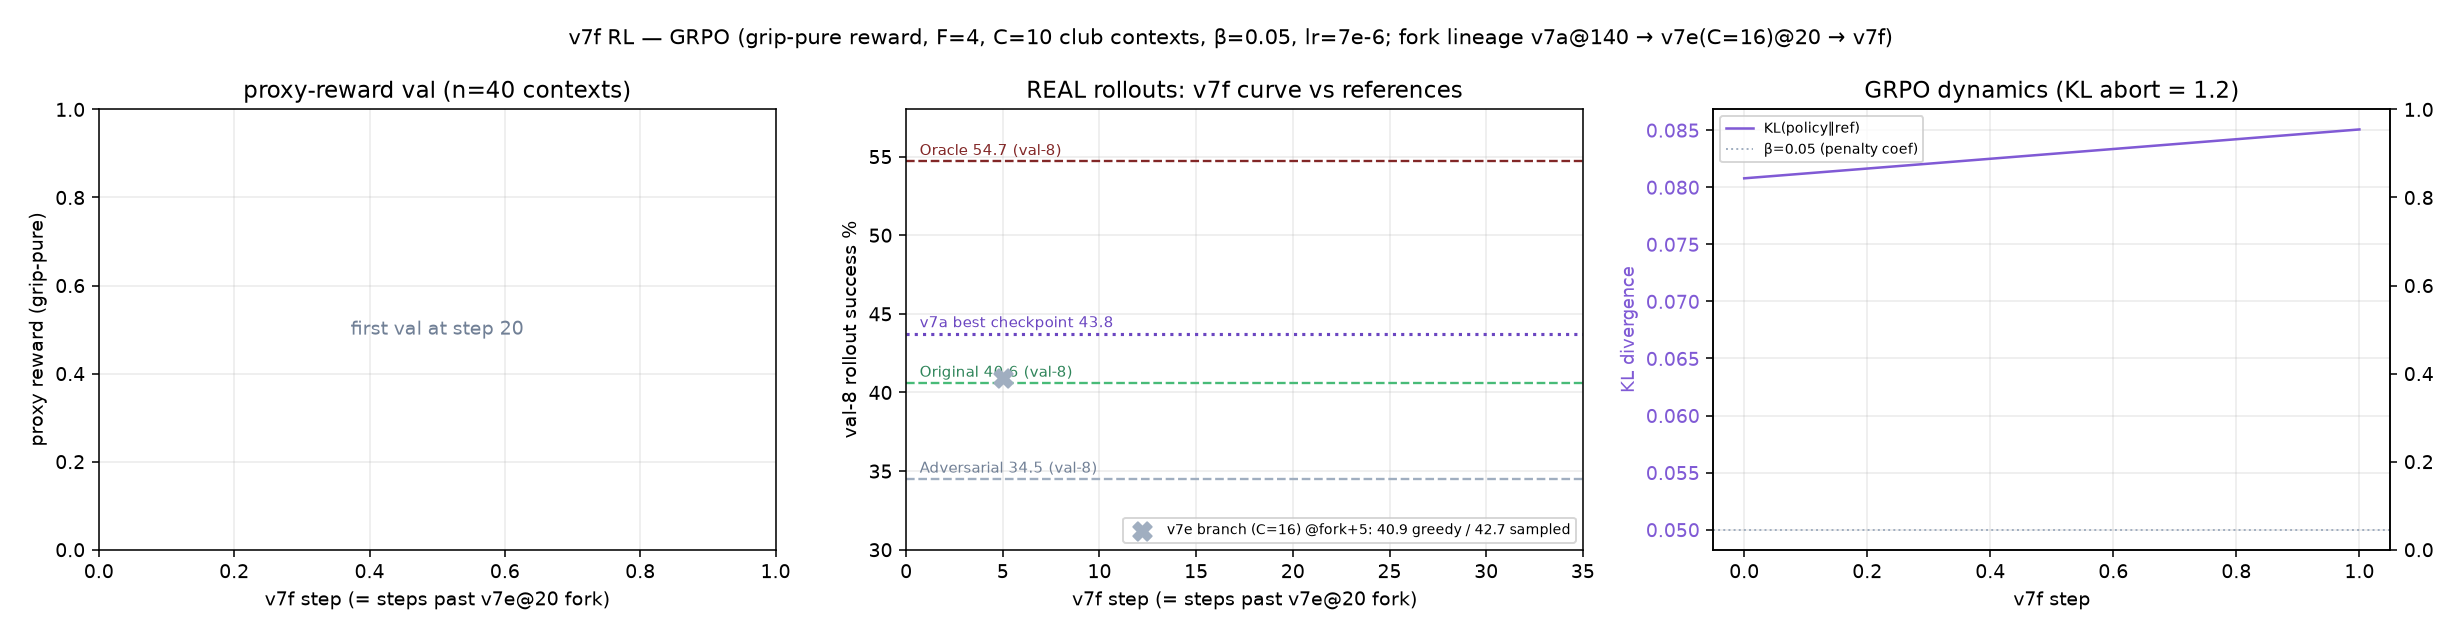
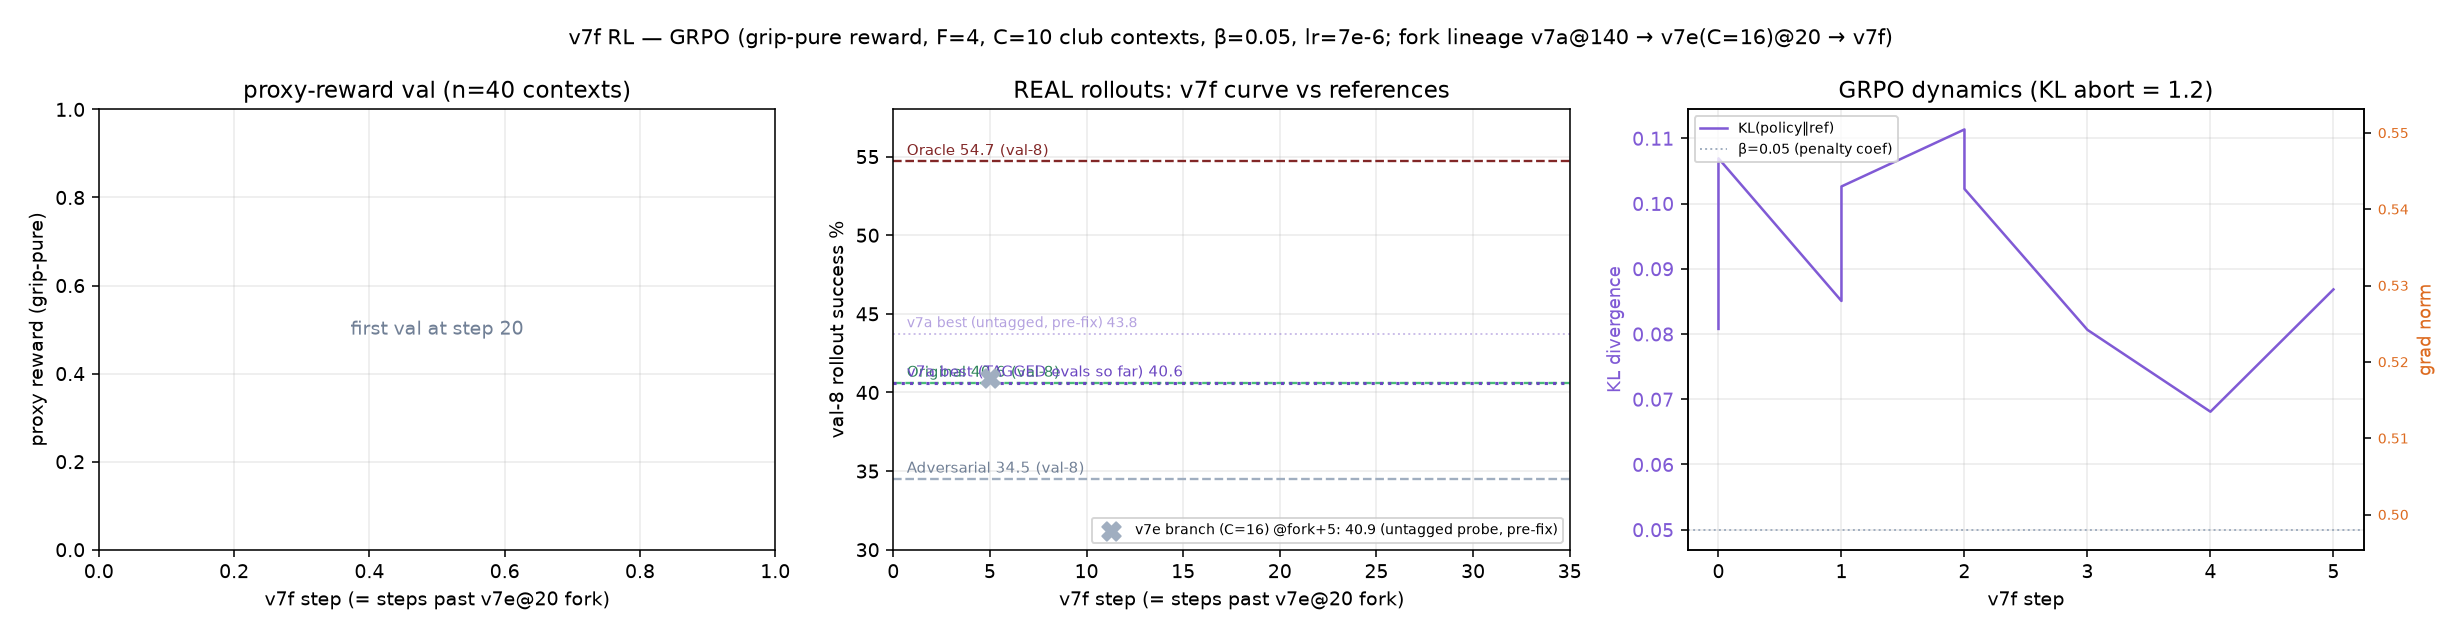
charts: tagged-vs-untagged layering (v7a conditions); v7f refs labeled by eval mode

diff --git a/scripts/make_v7_conditions_chart.py b/scripts/make_v7_conditions_chart.py
@@ -1,6 +1,9 @@
 #!/usr/bin/env python3
-"""v7 checkpoints on the full val-8, both input conditions (polish = rewriting
-originals; repair = rewriting adversarial), against the rolled reference lines."""
+"""v7a checkpoints on the full val-8, both input conditions, TAGGED (fixed) evals
+solid vs pre-fix untagged evals ghosted. Tagged rows merge from all roll pods'
+files (v7_dev8_tagged*.jsonl / v7_dev8adv_tagged*.jsonl); references from the
+rolled val8 leg (no policy generation -> unaffected by the tag bug)."""
+import glob
 import json
 
 import matplotlib
@@ -8,32 +11,55 @@ import matplotlib
 matplotlib.use("Agg")
 import matplotlib.pyplot as plt
 
-pol = sorted((json.loads(l) for l in open("results/analysis/v7_dev8_backfill.jsonl")), key=lambda r: r["step"])
-try:
-    rep = sorted((json.loads(l) for l in open("results/analysis/v7_dev8adv_backfill.jsonl")), key=lambda r: r["step"])
-except FileNotFoundError:
-    rep = []
 
-fig, ax = plt.subplots(figsize=(9.5, 5.4))
+def rows(pattern):
+    by_step = {}
+    for f in sorted(glob.glob(pattern)):
+        for l in open(f):
+            r = json.loads(l)
+            by_step[r["step"]] = r
+    return sorted(by_step.values(), key=lambda r: r["step"])
+
+
+pol_t = rows("results/analysis/v7_dev8_tagged*.jsonl")
+rep_t = rows("results/analysis/v7_dev8adv_tagged*.jsonl")
+pol_u = rows("results/analysis/v7_dev8_backfill.jsonl")
+rep_u = rows("results/analysis/v7_dev8adv_backfill.jsonl")
+
+fig, ax = plt.subplots(figsize=(10.5, 5.6))
+tr = ax.get_yaxis_transform()
 ax.axhline(54.7, ls="--", color="#822727", lw=1.4)
-ax.text(122, 55.0, "Oracle 54.7", color="#822727", fontsize=8.5)
+ax.text(0.01, 55.0, "Oracle 54.7", color="#822727", fontsize=8.5, transform=tr)
 ax.axhline(40.6, ls="--", color="#48bb78", lw=1.4)
-ax.text(122, 40.9, "Original phrasing 40.6", color="#2f855a", fontsize=8.5)
+ax.text(0.01, 40.9, "Original phrasing 40.6", color="#2f855a", fontsize=8.5, transform=tr)
 ax.axhline(34.5, ls="--", color="#a0aec0", lw=1.4)
-ax.text(122, 34.8, "Adversarial phrasing 34.5", color="#718096", fontsize=8.5)
-ax.plot([r["step"] for r in pol], [r["pooled"] for r in pol], marker="o", ms=8,
-        color="#6b46c1", lw=2, label="v7a rewriting ORIGINALS (polish)")
-if rep:
-    ax.plot([r["step"] for r in rep], [r["pooled"] for r in rep], marker="s", ms=9,
-            color="#dd6b20", lw=2, ls="-", label="v7a rewriting ADVERSARIAL (repair)")
-ax.set_xlabel("v7a checkpoint step (run trained to step 340)")
+ax.text(0.01, 34.8, "Adversarial phrasing 34.5", color="#718096", fontsize=8.5, transform=tr)
+
+if pol_u:
+    ax.plot([r["step"] for r in pol_u], [r["pooled"] for r in pol_u], marker="o", ms=6,
+            color="#6b46c1", alpha=0.25, lw=1.2, ls=":", label="polish, UNTAGGED eval (pre-fix)")
+if rep_u:
+    ax.plot([r["step"] for r in rep_u], [r["pooled"] for r in rep_u], marker="s", ms=6,
+            color="#dd6b20", alpha=0.25, lw=1.2, ls=":", label="repair, UNTAGGED eval (pre-fix)")
+if pol_t:
+    ax.plot([r["step"] for r in pol_t], [r["pooled"] for r in pol_t], marker="D", ms=9,
+            color="#6b46c1", lw=2.2, label="v7a rewriting ORIGINALS — TAGGED eval (fixed)")
+if rep_t:
+    ax.plot([r["step"] for r in rep_t], [r["pooled"] for r in rep_t], marker="s", ms=9,
+            color="#e53e3e", lw=2.2, label="v7a rewriting ADVERSARIAL — TAGGED eval (fixed)")
+
+ax.set_xlabel("v7a checkpoint step (run trained to 340)")
 ax.set_ylabel("val-8 rollout success % (8 tasks × 24 layouts, greedy)")
 ax.set_ylim(30, 58)
-ax.set_title("v7a checkpoints on the full val-8 — both input conditions vs references")
-ax.legend(loc="lower right", fontsize=9)
+ax.set_xlim(-8, 348)
+ax.set_title("v7a on the full val-8 — both input conditions, tagged (fixed) vs pre-fix evals")
+ax.legend(loc="lower right", fontsize=8)
 ax.grid(alpha=0.25)
-fig.text(0.01, 0.01, "v7a = original v7 run (β=0.15, F=16), trained to step 340. Late checkpoints (280-340) + repair 260 rolling; "
-         "v7b (β=0.05) and v7e (grip/C=16) forks not yet val-8-evaluated. n=192/pt (±3.6). References: rolled val8 leg, n=288/task/arm.", fontsize=7, color="#4a5568")
-fig.tight_layout(rect=[0, 0.04, 1, 1])
+fig.text(0.01, 0.01, "TAGGED = inputs carry the training-time tier tag ([input: original wording] / [input: adversarially reworded]) — "
+         "the policy never saw untagged inputs in training, so ghosted points are out-of-distribution measurements. "
+         "Full tagged matrix (both conditions, 0-340) landing overnight. n=192/pt (±3.6). References: rolled val8 leg, n=288/task/arm.",
+         fontsize=7, color="#4a5568")
+fig.tight_layout(rect=[0, 0.05, 1, 1])
 fig.savefig("results/charts/v7_conditions.png", dpi=150, bbox_inches="tight", pad_inches=0.25)
-print("chart -> results/charts/v7_conditions.png")
+n = len(pol_t) + len(rep_t)
+print(f"chart -> results/charts/v7_conditions.png ({n} tagged points)")

diff --git a/scripts/make_v7f_progress.py b/scripts/make_v7f_progress.py
@@ -34,10 +34,16 @@ if os.path.exists("results/analysis/v7f_rollout_curve.jsonl"):
     curve = sorted((json.loads(l) for l in open("results/analysis/v7f_rollout_curve.jsonl")),
                    key=lambda d: d["step"])
 
-try:
-    v7a_best = max(json.loads(l)["pooled"] for l in open("results/analysis/v7_dev8_backfill.jsonl"))
-except Exception:
-    v7a_best = None
+import glob
+
+
+def _best(pattern):
+    vals = [json.loads(l)["pooled"] for f in glob.glob(pattern) for l in open(f)]
+    return max(vals) if vals else None
+
+
+v7a_best = _best("results/analysis/v7_dev8_tagged*.jsonl")  # tagged (fixed) evals
+v7a_best_untagged = _best("results/analysis/v7_dev8_backfill.jsonl")
 
 fig, (a1, a2, a3) = plt.subplots(1, 3, figsize=(17.5, 4.4))
 
@@ -77,8 +83,12 @@ a2.text(0.02, 41.0, "Original 40.6 (val-8)", color="#2f855a", fontsize=7.5, tran
 a2.text(0.02, 34.9, "Adversarial 34.5 (val-8)", color="#718096", fontsize=7.5, transform=tr)
 if v7a_best is not None:
     a2.axhline(v7a_best, ls=":", color="#6b46c1", lw=1.6)
-    a2.text(0.02, v7a_best + 0.4, f"v7a best checkpoint {v7a_best:.1f}", color="#6b46c1",
+    a2.text(0.02, v7a_best + 0.4, f"v7a best (TAGGED evals so far) {v7a_best:.1f}", color="#6b46c1",
             fontsize=7.5, transform=tr)
+if v7a_best_untagged is not None:
+    a2.axhline(v7a_best_untagged, ls=":", color="#6b46c1", lw=1.0, alpha=0.35)
+    a2.text(0.02, v7a_best_untagged + 0.4, f"v7a best (untagged, pre-fix) {v7a_best_untagged:.1f}",
+            color="#6b46c1", alpha=0.5, fontsize=7, transform=tr)
 if curve:
     cs = [c["step"] for c in curve]
     a2.plot(cs, [c["pooled"] for c in curve], marker="D", ms=7, color="#2b6cb0", lw=2.0,
@@ -89,7 +99,7 @@ if curve:
             label="v7f: SAMPLED (rewriting originals, n=192)")
 # v7e's lone C=16 probe: its step 25 = fork+5 on this axis
 a2.scatter([5], [40.89], marker="X", s=90, color="#a0aec0", zorder=4,
-           label="v7e branch (C=16) @fork+5: 40.9 greedy / 42.7 sampled")
+           label="v7e branch (C=16) @fork+5: 40.9 (untagged probe, pre-fix)")
 a2.set_xlabel("v7f step (= steps past v7e@20 fork)")
 a2.set_ylabel("val-8 rollout success %")
 a2.set_ylim(30, 58)
